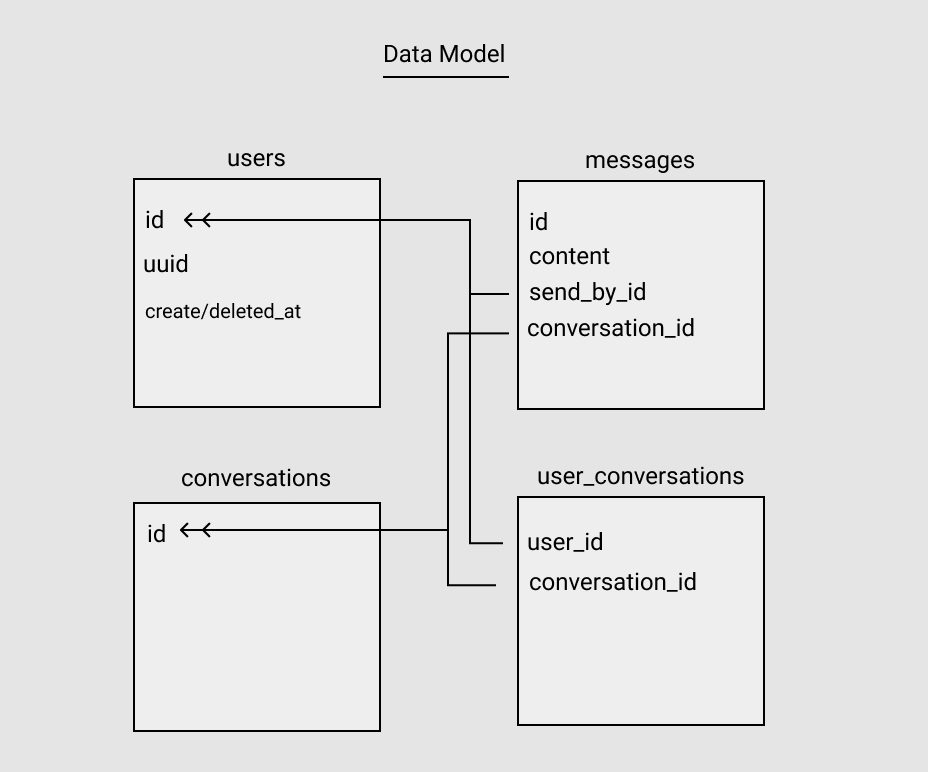
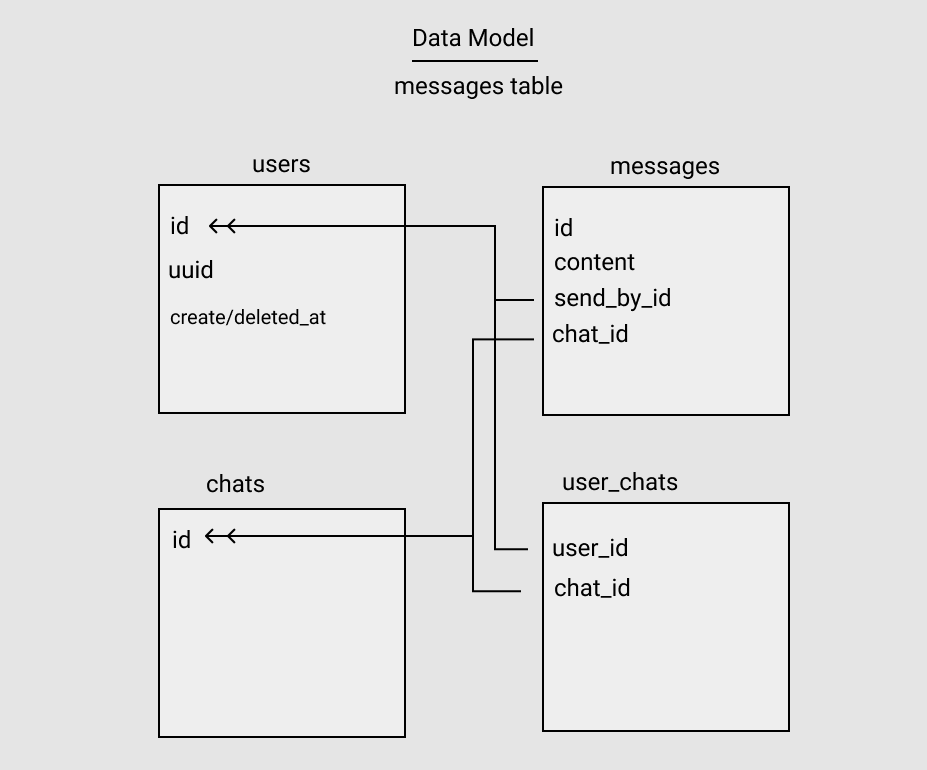
refactor conversations -> chats

Changed region(s): [[0.1208, 0.187, 0.8457, 0.9662], [0.3927, 0.0312, 0.6041, 0.1247]]

diff --git a/src/controllers.ts b/src/controllers.ts
@@ -9,8 +9,8 @@ export async function allMessagesController() {
     const queryResults = await client.query(
       sql`
           SELECT messages.*,
-           (SELECT user_id FROM user_convos 
-            WHERE convo_id = messages.convo_id AND user_id <> messages.send_by_id) AS sent_to_id
+           (SELECT user_id FROM user_chats 
+            WHERE chat_id = messages.chat_id AND user_id <> messages.send_by_id) AS sent_to_id
           FROM messages
           WHERE messages.created_at > (now() - '30 days'::INTERVAL)
           LIMIT 100;
@@ -27,7 +27,7 @@ export async function allMessagesController() {
 }
 
 export async function createMessage(
-  convoId: number,
+  chatId: number,
   sendById: number,
   content: string
 ) {
@@ -38,11 +38,11 @@ export async function createMessage(
     await client.query(sql`BEGIN`);
 
     const preparedStatement = sql`
-      INSERT INTO messages(convo_id, send_by_id, content)
+      INSERT INTO messages(chat_id, send_by_id, content)
       VALUES($1, $2, $3)
     `;
     const insertResult = await client.query(preparedStatement, [
-      +convoId,
+      +chatId,
       +sendById,
       content,
     ]);
@@ -161,13 +161,13 @@ export async function getAllUsers() {
   return ok(result);
 }
 
-export async function getconvoById(id: number) {
+export async function getchatById(id: number) {
   let result = {};
   const client = await pool.connect();
 
   try {
     const preparedStatement = sql`
-        SELECT id FROM convos where id = $1
+        SELECT id FROM chats where id = $1
     `;
     const query = await client.query(preparedStatement, [id]);
     if (query.rowCount > 0) {
@@ -182,17 +182,17 @@ export async function getconvoById(id: number) {
   return ok(result);
 }
 
-export async function convoExists(userId: number, recipientId: number) {
+export async function chatExists(userId: number, recipientId: number) {
   let result = null;
   const client = await pool.connect();
   try {
     const query = await client.query(sql`
-      SELECT convos.* FROM convos, 
-        (SELECT * FROM user_convos WHERE user_id = ${+userId}) AS uc, 
-        user_convos
-      WHERE user_convos.convo_id = uc.convo_id
-        AND convos.id = user_convos.convo_id
-        AND user_convos.user_id = ${+recipientId}
+      SELECT chats.* FROM chats, 
+        (SELECT * FROM user_chats WHERE user_id = ${+userId}) AS uc, 
+        user_chats
+      WHERE user_chats.chat_id = uc.chat_id
+        AND chats.id = user_chats.chat_id
+        AND user_chats.user_id = ${+recipientId}
     `);
     if (query.rowCount > 0) {
       result = query.rows[0];
@@ -206,23 +206,23 @@ export async function convoExists(userId: number, recipientId: number) {
   return ok(result);
 }
 
-export async function createConvo(userId: number, recipientId: number) {
+export async function createChat(userId: number, recipientId: number) {
   let result = null;
   const client = await pool.connect();
   try {
     await client.query(sql`BEGIN`);
-    const convoTx = sql`INSERT INTO convos DEFAULT VALUES RETURNING id`;
+    const chatTx = sql`INSERT INTO chats DEFAULT VALUES RETURNING id`;
     const {
       rows: [{ id }],
-    } = await client.query(convoTx);
+    } = await client.query(chatTx);
 
     await client.query(sql`
-      INSERT INTO user_convos(user_id, convo_id)
+      INSERT INTO user_chats(user_id, chat_id)
       VALUES(${userId}, ${id})
     `);
 
     await client.query(sql`
-      INSERT INTO user_convos(user_id, convo_id)
+      INSERT INTO user_chats(user_id, chat_id)
       VALUES(${recipientId}, ${id})
     `);
 

diff --git a/src/handlers.ts b/src/handlers.ts
@@ -1,11 +1,11 @@
 import { Request, Response } from "express";
 import {
   allMessagesController,
-  convoExists,
-  createConvo,
+  chatExists,
+  createChat,
   createMessage,
   getAllUsers,
-  getconvoById,
+  getchatById,
   getMessage,
   getOrCreateUser,
   getUserById,
@@ -16,7 +16,7 @@ export const pingHandler = (req: Request, res: Response) => {
   return res.send("pong");
 };
 
-export const createConvoHandler = async (req: Request, res: Response) => {
+export const createChatHandler = async (req: Request, res: Response) => {
   if (isEmpty(req.body)) {
     res.status(400).send("missing request body");
     return;
@@ -24,29 +24,29 @@ export const createConvoHandler = async (req: Request, res: Response) => {
 
   const { userId, recipientId } = req.body;
 
-  const getConvoResult = await convoExists(userId, recipientId);
+  const getChatResult = await chatExists(userId, recipientId);
 
-  if (getConvoResult.isErr()) {
-    return res.status(500).send(getConvoResult.error);
+  if (getChatResult.isErr()) {
+    return res.status(500).send(getChatResult.error);
   }
 
-  if (getConvoResult.isOk()) {
-    if (isNull(getConvoResult.value)) {
-      const createConvoResult = await createConvo(userId, recipientId);
+  if (getChatResult.isOk()) {
+    if (isNull(getChatResult.value)) {
+      const createChatResult = await createChat(userId, recipientId);
 
-      if (createConvoResult.isOk()) {
-        return res.status(200).json(createConvoResult.value);
+      if (createChatResult.isOk()) {
+        return res.status(200).json(createChatResult.value);
       }
-      if (createConvoResult.isErr()) {
-        return res.status(500).send(createConvoResult.error);
+      if (createChatResult.isErr()) {
+        return res.status(500).send(createChatResult.error);
       }
     }
-    return res.status(200).json(getConvoResult.value);
+    return res.status(200).json(getChatResult.value);
   }
 };
 
-// TODO: return messages in convo
-export const getConvoHandler = async (req: Request, res: Response) => {
+// TODO: return messages in chat
+export const getChatHandler = async (req: Request, res: Response) => {
   if (isEmpty(req.params)) {
     res.status(400).send("missing :id url param");
     return;
@@ -54,7 +54,7 @@ export const getConvoHandler = async (req: Request, res: Response) => {
 
   const { id } = req.params;
 
-  const result = await getconvoById(+id);
+  const result = await getchatById(+id);
 
   if (result.isErr()) {
     return res.status(500).send(result.error);
@@ -82,9 +82,9 @@ export const createMessageHandler = async (req: Request, res: Response) => {
     return;
   }
 
-  const { convoId, sendById, content } = req.body;
+  const { chatId, sendById, content } = req.body;
 
-  const result = await createMessage(convoId, sendById, content);
+  const result = await createMessage(chatId, sendById, content);
 
   if (result.isErr()) {
     return res.status(500).send(result.error);

diff --git a/src/db.ts b/src/db.ts
@@ -27,11 +27,11 @@ export async function resetDB(): Promise<void> {
 
   await client.query(sql`DROP TABLE IF EXISTS users`);
   await client.query(sql`DROP TABLE IF EXISTS messages`);
-  await client.query(sql`DROP TABLE IF EXISTS convos`);
-  await client.query(sql`DROP TABLE IF EXISTS user_convos`);
+  await client.query(sql`DROP TABLE IF EXISTS chats`);
+  await client.query(sql`DROP TABLE IF EXISTS user_chats`);
 
   await client.query(sql`
-    CREATE TABLE convos(
+    CREATE TABLE chats(
         id SERIAL PRIMARY KEY
     );
   `);
@@ -48,16 +48,16 @@ export async function resetDB(): Promise<void> {
         id SERIAL PRIMARY KEY,
         content TEXT NOT NULL,
         send_by_id INTEGER NOT NULL REFERENCES users(id) ON DELETE CASCADE,
-        convo_id INTEGER NOT NULL REFERENCES convos(id) ON DELETE CASCADE,
+        chat_id INTEGER NOT NULL REFERENCES chats(id) ON DELETE CASCADE,
         created_at TIMESTAMP NOT NULL DEFAULT now(),
         deleted_at TIMESTAMP NOT NULL DEFAULT now()
       );
   `);
 
   await client.query(sql`
-    CREATE TABLE user_convos(
+    CREATE TABLE user_chats(
         user_id INTEGER NOT NULL REFERENCES users(id) ON DELETE CASCADE,
-        convo_id INTEGER NOT NULL REFERENCES convos(id) ON DELETE CASCADE
+        chat_id INTEGER NOT NULL REFERENCES chats(id) ON DELETE CASCADE
     );
   `);
 

diff --git a/src/routes.ts b/src/routes.ts
@@ -6,8 +6,8 @@ import {
   getMessageHandler,
   createUserHandler,
   getUserHandler,
-  createConvoHandler,
-  getConvoHandler,
+  createChatHandler,
+  getChatHandler,
   getAllUsersHandler,
 } from "./handlers";
 
@@ -19,8 +19,8 @@ export const api = express.Router();
 
 api.get("/all-messages", getAllMessagesHandler);
 
-api.post("/convos", createConvoHandler);
-api.get("/convos/:id", getConvoHandler);
+api.post("/chats", createChatHandler);
+api.get("/chats/:id", getChatHandler);
 
 api.post("/messages", createMessageHandler);
 api.get("/messages/:id", getMessageHandler);
